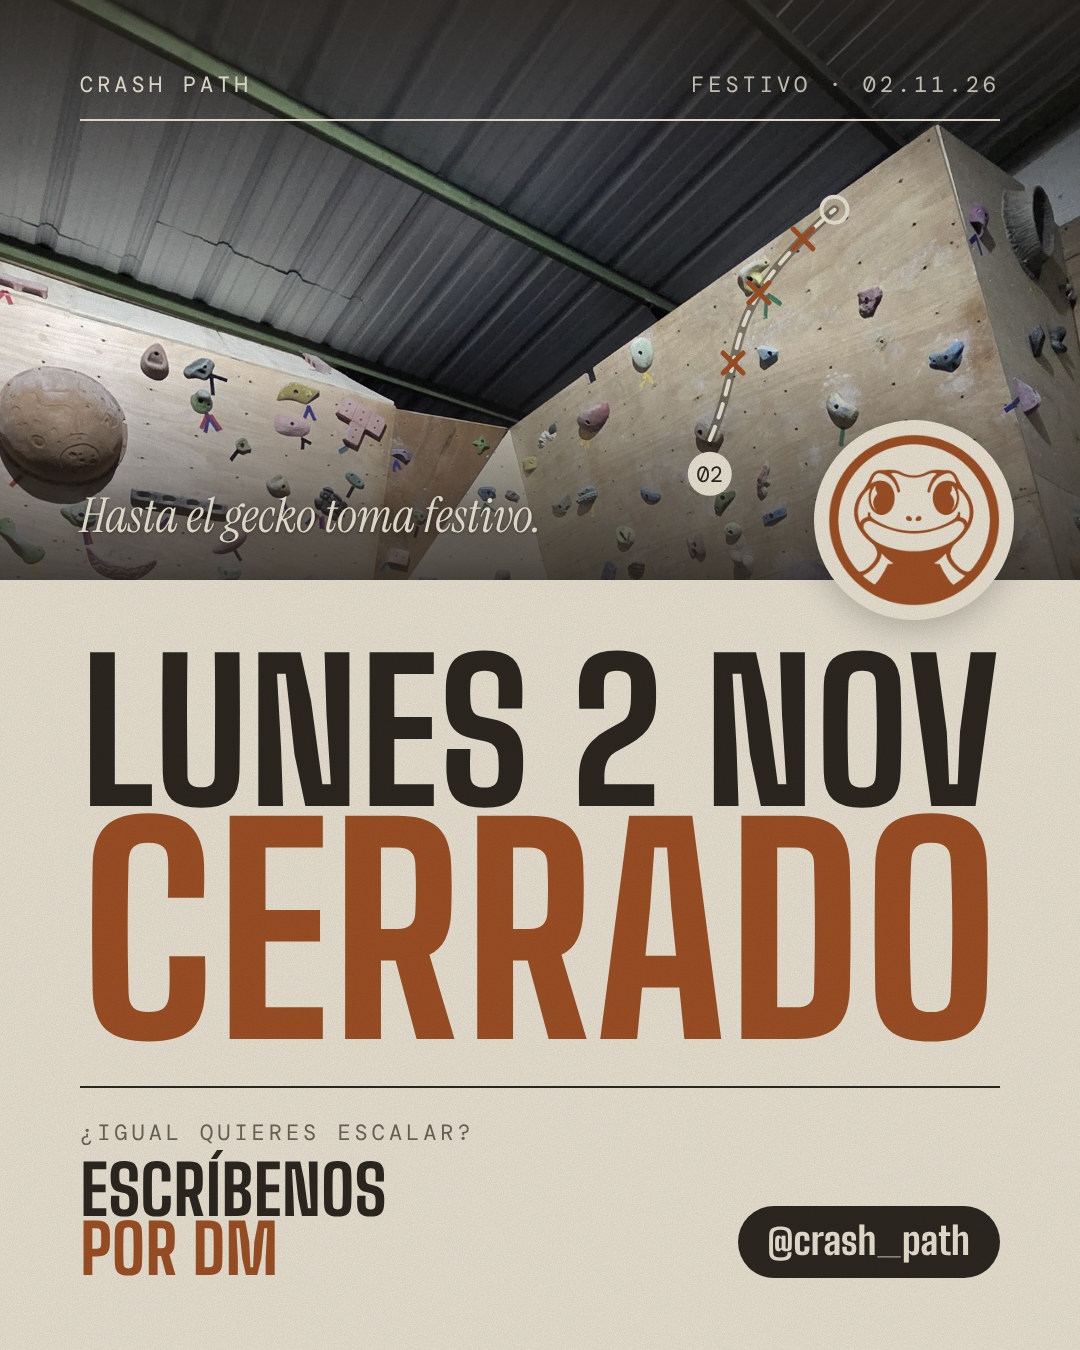
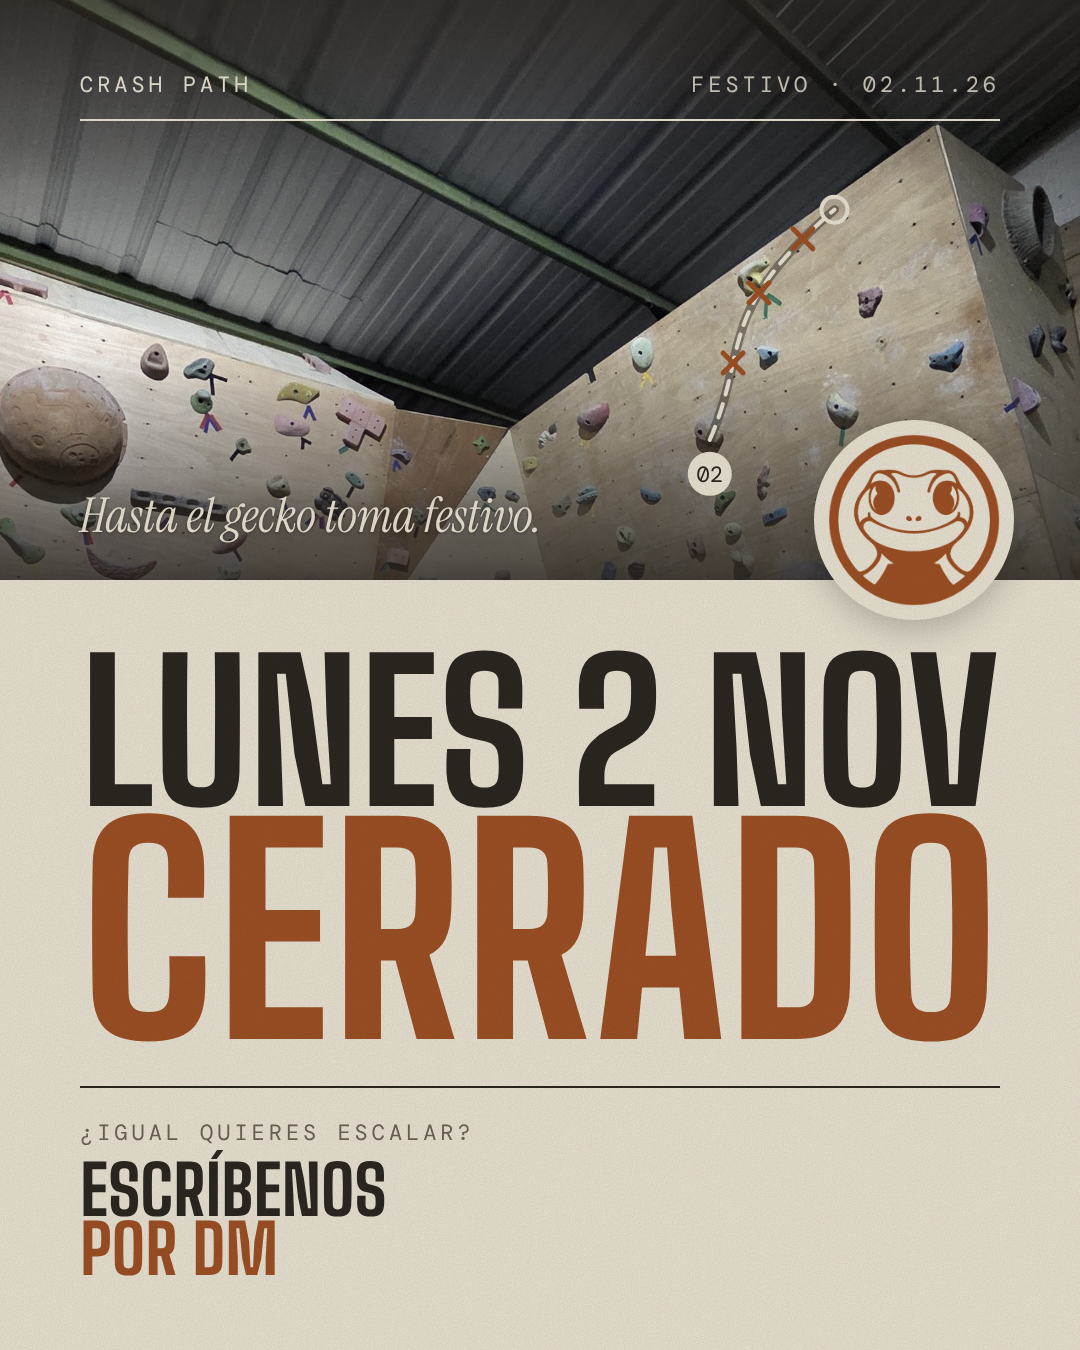
fix(marketing): quitar @crash_path del flyer
Claude-Session: https://claude.ai/code/session_01Kp2Cj2ojDrwkDDi4BKeahP

Changed region(s): [[0.6722, 0.8711, 0.9472, 0.9644]]

diff --git a/marketing/flyers/2026-11-02-cerrado/flyer-foto.html b/marketing/flyers/2026-11-02-cerrado/flyer-foto.html
@@ -74,7 +74,6 @@
       <span class="mono">¿Igual quieres escalar?</span>
       <h2>Escríbenos<br><span>por DM</span></h2>
     </div>
-    <div class="handle">@crash_path</div>
   </div>
 
   <svg class="grano" width="100%" height="100%">

diff --git a/marketing/flyers/2026-11-02-cerrado/flyer.html b/marketing/flyers/2026-11-02-cerrado/flyer.html
@@ -98,7 +98,6 @@
       <span class="mono">¿Igual quieres escalar?</span>
       <h2>Escríbenos<br><span>por DM</span></h2>
     </div>
-    <div class="handle">@crash_path</div>
   </div>
 </div>
 
